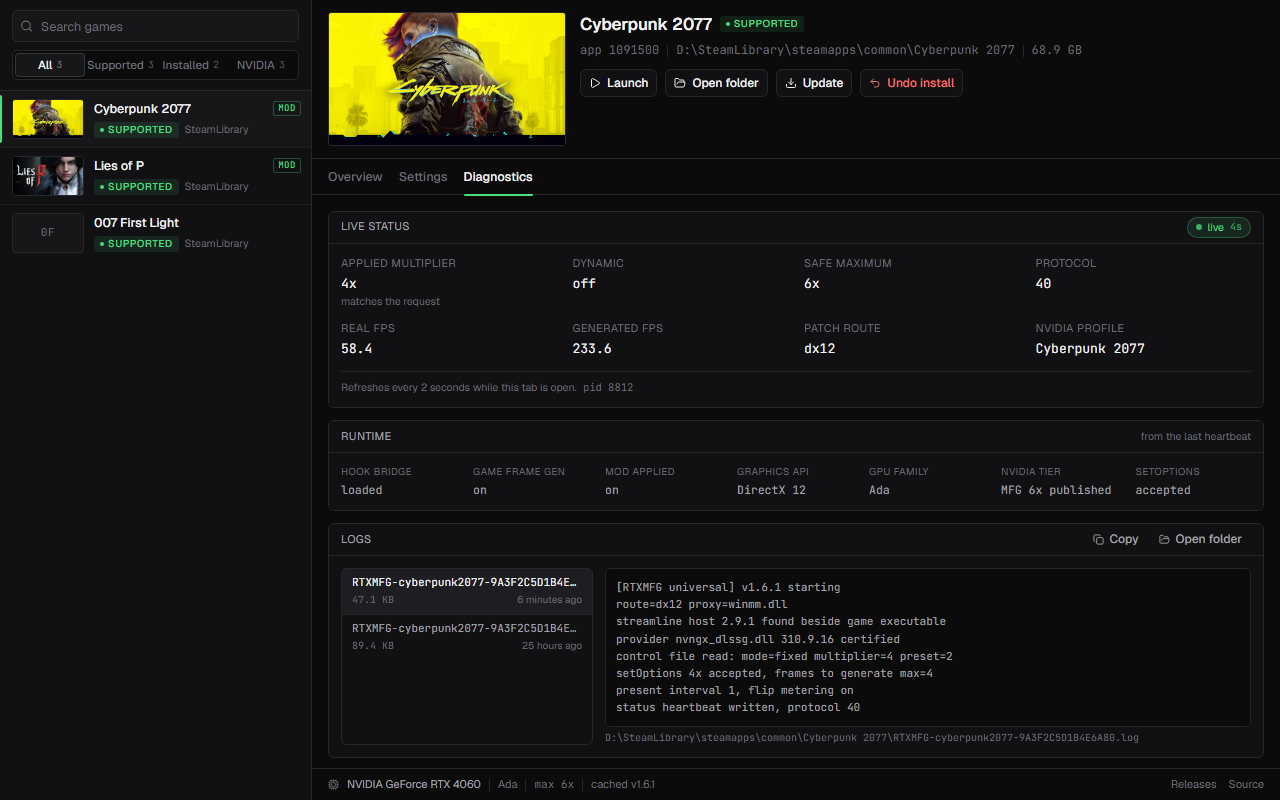
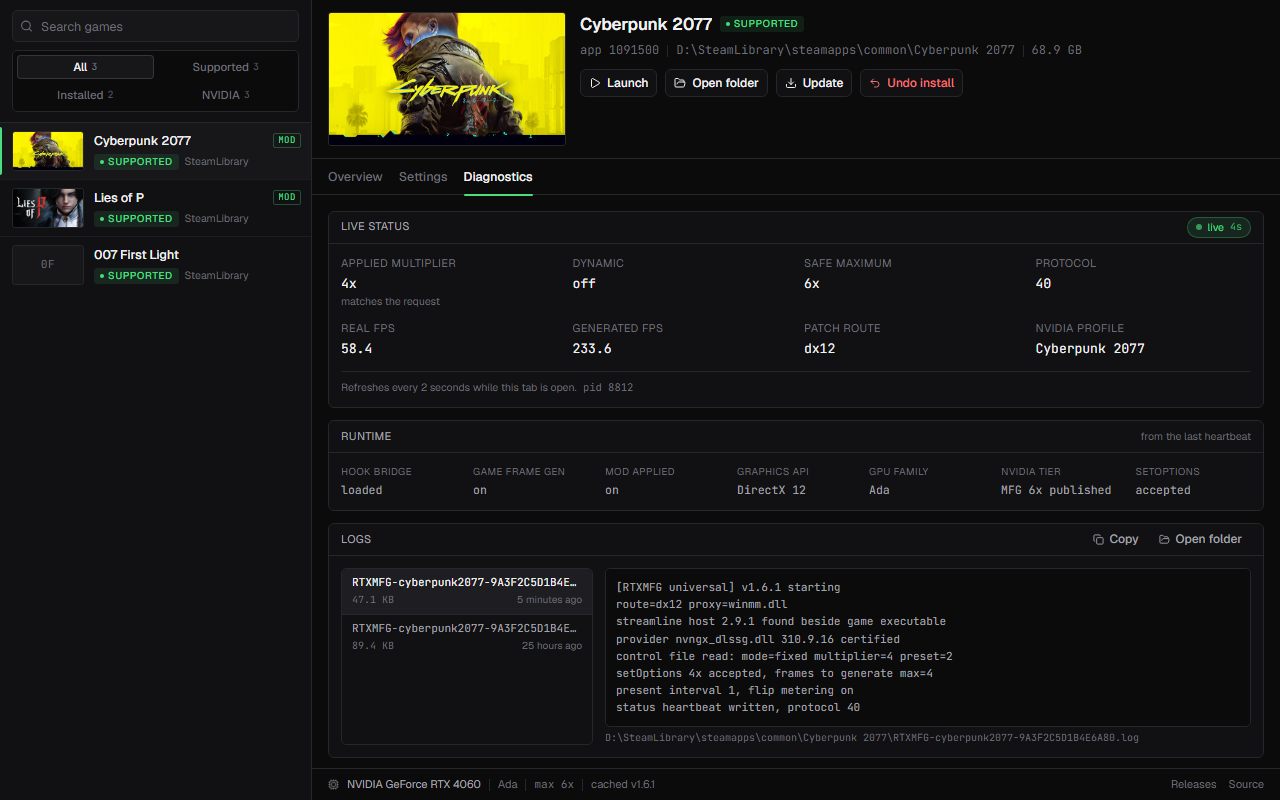
keep the filter count inside its highlight

Changed region(s): [[0.0, 0.0625, 0.2188, 0.3438], [0.2188, 0.125, 0.25, 0.25], [0.1562, 0.3438, 0.1875, 0.375]]

diff --git a/src/components/LeftRail.tsx b/src/components/LeftRail.tsx
@@ -103,7 +103,7 @@ export function LeftRail({
           )}
         </div>
 
-        <div className="flex rounded-[5px] border border-line bg-base p-0.5">
+        <div className="grid grid-cols-2 gap-1 rounded-[5px] border border-line bg-base p-1">
           {options.map((option) => {
             const active = option.value === filter;
             return (
@@ -111,9 +111,10 @@ export function LeftRail({
                 key={option.value}
                 type="button"
                 aria-pressed={active}
+                title={`${option.label}: ${option.count} games`}
                 onClick={() => setFilter(option.value)}
                 className={cn(
-                  "flex h-6 flex-1 items-center justify-center gap-1 rounded-[4px] text-[11.5px] font-medium transition-[background-color,color,box-shadow] duration-150 ease-out max-[920px]:gap-0.5 max-[920px]:text-[11px]",
+                  "flex h-6 items-center justify-center gap-1 rounded-[4px] text-[11.5px] font-medium transition-[background-color,color,box-shadow] duration-150 ease-out max-[920px]:gap-0.5 max-[920px]:text-[11px]",
                   active
                     ? "bg-elevated text-ink shadow-[inset_0_0_0_1px_var(--color-line-strong)]"
                     : "text-ink-dim hover:text-ink-muted",
